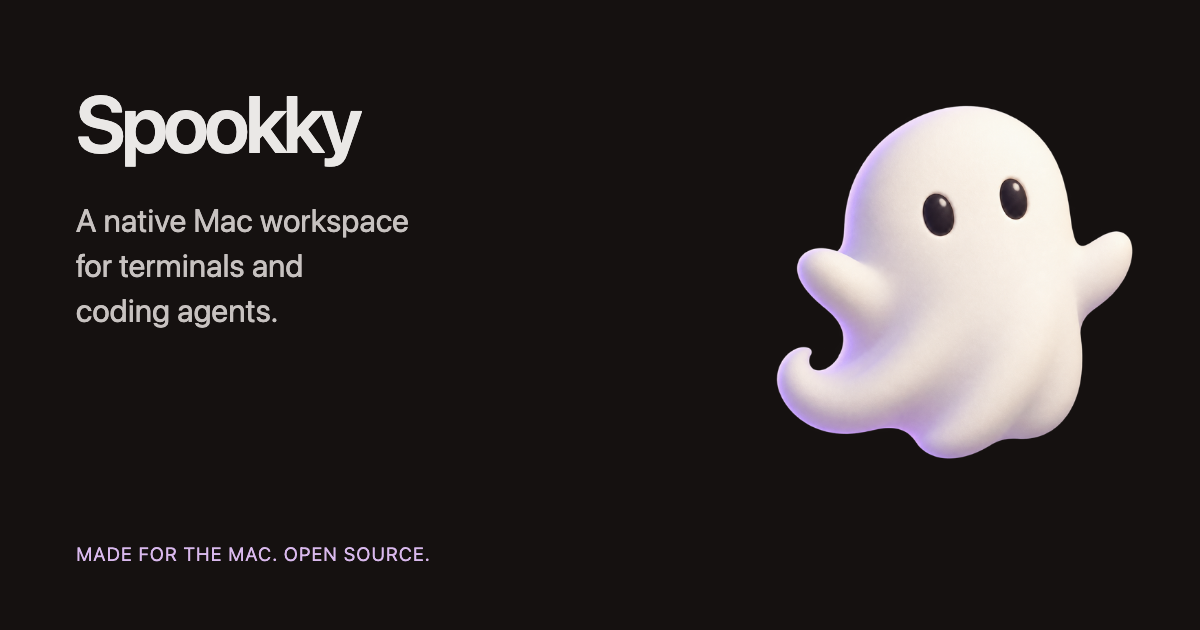
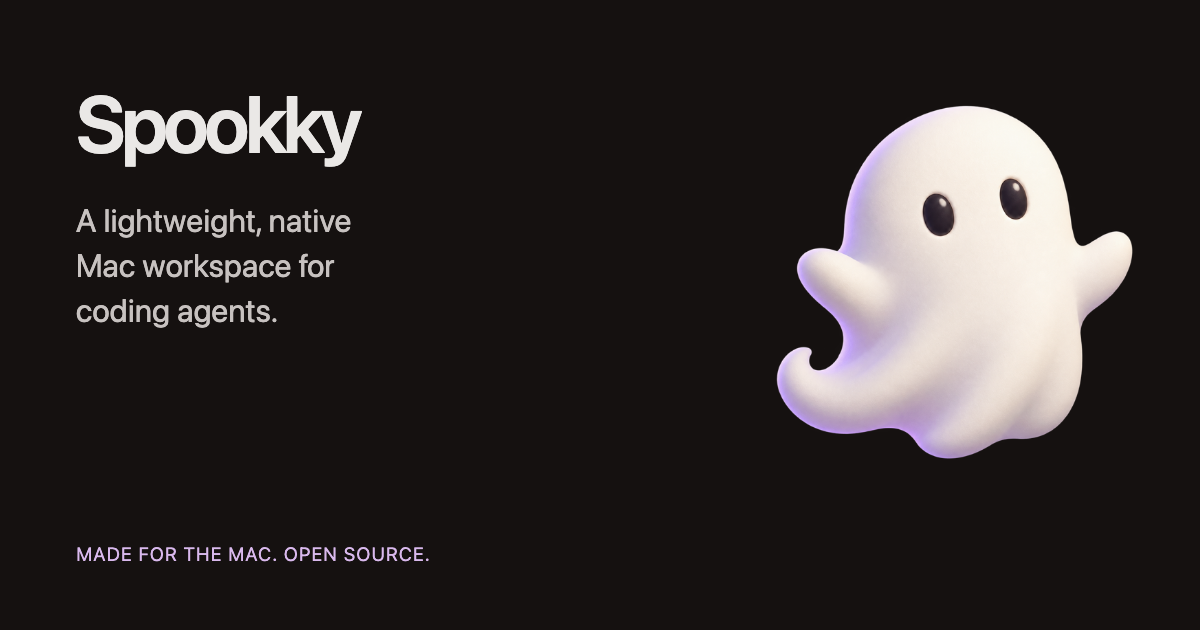
feat(web): simplify landing page and refresh native screenshots (#21)

Changed region(s): [[0.0617, 0.3317, 0.3392, 0.4524]]

diff --git a/website/style.css b/website/style.css
@@ -1,8 +1,87 @@
-:root{color-scheme:dark;--bg:#151110;--surface:#201e1c;--text:#eae8e6;--muted:#a8a5a3;--line:#37312f;--accent:#d9b9ed;--wash:#251b2b;--button:#eae8e6;--button-text:#151110}
-@media(prefers-color-scheme:light){:root{color-scheme:light;--bg:#f9f9fa;--surface:#fff;--text:#0a0a0a;--muted:#4a4847;--line:#d8d6da;--accent:#75507b;--wash:#f1eaf6;--button:#201e1c;--button-text:#fff}}
-:root[data-theme=dark]{color-scheme:dark;--bg:#151110;--surface:#201e1c;--text:#eae8e6;--muted:#a8a5a3;--line:#37312f;--accent:#d9b9ed;--wash:#251b2b;--button:#eae8e6;--button-text:#151110}
-:root[data-theme=light]{color-scheme:light;--bg:#f9f9fa;--surface:#fff;--text:#0a0a0a;--muted:#4a4847;--line:#d8d6da;--accent:#75507b;--wash:#f1eaf6;--button:#201e1c;--button-text:#fff}
-*{box-sizing:border-box}html{scroll-behavior:smooth;scroll-padding-top:24px}body{margin:0;background:var(--bg);color:var(--text);font:16px/1.65 -apple-system,BlinkMacSystemFont,"Segoe UI",sans-serif;-webkit-font-smoothing:antialiased}a{color:inherit;text-decoration:none}a:hover{text-decoration:underline;text-underline-offset:5px}button{font:inherit;color:inherit;cursor:pointer}a:focus-visible,button:focus-visible{outline:3px solid var(--accent);outline-offset:6px}img{max-width:100%;height:auto;display:block}.wrap{max-width:1216px;margin-inline:auto;padding-inline:40px}.skip{position:absolute;left:20px;top:-100px;z-index:5;background:var(--button);color:var(--button-text);padding:12px}.skip:focus{top:12px}.navigation{display:flex;align-items:center;justify-content:space-between;min-height:100px;gap:24px}.wordmark{display:flex;align-items:center;gap:10px;font-size:22px;letter-spacing:-.7px;font-weight:650}.wordmark img{border-radius:8px}.navigation nav{display:flex;align-items:center;gap:28px;font-size:13px}.navigation button{border:1px solid var(--line);background:transparent;border-radius:50%;width:36px;height:36px;font-size:22px;line-height:1}.hero{display:grid;grid-template-columns:1.2fr 1fr;align-items:center;min-height:650px;padding-block:72px 92px;gap:12px}.eyebrow{font-size:11px;letter-spacing:1.6px;text-transform:uppercase;color:var(--muted);font-weight:500;margin:0 0 24px}.dot{display:inline-block;width:6px;height:6px;background:var(--accent);border-radius:50%;margin-right:8px;vertical-align:2px}h1{font-weight:550;font-size:clamp(36px,4.4vw,60px);line-height:1.12;letter-spacing:-2.5px;margin:0 0 26px;max-width:650px}h1 span{color:var(--accent)}.intro{font-size:17px;line-height:1.7;color:var(--muted);max-width:410px;margin:0 0 32px}.actions{display:flex;flex-wrap:wrap;align-items:center;gap:24px}.button{display:inline-flex;align-items:center;justify-content:center;gap:18px;padding:13px 20px;border-radius:9px;font-size:14px;font-weight:600}.primary{background:var(--button);color:var(--button-text);box-shadow:0 2px 0 #0002}.primary:hover{text-decoration:none;opacity:.85}.text-link{font-size:13px;font-weight:500}.release-detail{font-size:11px;color:var(--muted);max-width:410px;margin:18px 0 0}.release-notes{font-size:11px;text-decoration:underline}.hero-art{position:relative;min-width:0;padding:12px}.hero-art:before{content:"";position:absolute;inset:15% 5%;background:radial-gradient(ellipse,var(--wash),transparent 70%);z-index:-1}.hero-art img{width:100%;transform:rotate(-5deg)}.orbit{display:block;text-align:center;font:11px/1.5 ui-monospace,SFMono-Regular,monospace;color:var(--muted);margin-top:12px}.workspace{padding-block:60px 110px}.section-heading{display:grid;grid-template-columns:1fr 1fr;align-items:end;gap:16px 48px}.section-heading .eyebrow{grid-column:1/-1;margin-bottom:0}h2{font-size:36px;font-weight:500;line-height:1.2;letter-spacing:-1.2px;margin:0}.section-heading>p:last-child{color:var(--muted);font-size:14px;max-width:340px;justify-self:end;margin:0 0 4px}.app-shot{margin:40px 0 48px;border:1px solid var(--line);background:var(--surface);border-radius:14px;overflow:hidden;box-shadow:0 24px 70px #0002}.app-shot img{width:100%}.app-shot figcaption{font-size:10px;letter-spacing:.6px;color:var(--muted);padding:10px 16px;text-align:center;border-top:1px solid var(--line)}.benefits{display:grid;grid-template-columns:repeat(3,1fr);gap:36px}.number{font:10px ui-monospace,SFMono-Regular,monospace;letter-spacing:1.4px;color:var(--accent)}h3{font-size:18px;font-weight:500;letter-spacing:-.3px;margin:15px 0 8px}.benefits p,.install p,.story p,.preview-note p{color:var(--muted);font-size:14px;margin:0}.keys{display:flex;flex-wrap:wrap;gap:6px;align-items:center;font-size:10px;color:var(--muted);margin-top:18px}.keys span{margin-right:6px}kbd{font:11px ui-monospace,SFMono-Regular,monospace;border:1px solid var(--line);border-radius:4px;padding:3px 6px}.install{display:grid;grid-template-columns:1fr 1fr;gap:70px;padding-block:80px;border-top:1px solid var(--line);border-bottom:1px solid var(--line)}.install>div>p:last-child{margin-top:20px;max-width:390px}.install ol{padding:0;list-style:none;margin:0;display:grid;gap:24px}.install li{display:flex;gap:18px}.install li>span{flex:none;border:1px solid var(--line);border-radius:50%;width:32px;height:32px;text-align:center;font:12px/30px ui-monospace,SFMono-Regular,monospace}.install h3{margin:0 0 4px;font-size:15px}.install li p{font-size:12px}.story{padding-block:110px;display:grid;grid-template-columns:1fr 1fr;gap:28px 70px}.story .eyebrow{grid-column:1/-1;margin:0}.story-copy{display:grid;gap:18px}.preview-note{max-width:1136px;border:1px solid var(--line);border-radius:12px;padding:28px;margin-inline:auto;background:var(--surface)}.preview-note h2{font-size:19px;letter-spacing:-.3px;margin-bottom:12px}.preview-note p{max-width:780px;margin-bottom:16px}footer{display:flex;flex-wrap:wrap;align-items:center;gap:16px 28px;padding-block:64px 36px}footer .wordmark{font-size:17px}footer p,footer nav,footer small{font-size:11px;color:var(--muted)}footer nav{display:flex;gap:20px;flex-wrap:wrap;margin-left:auto}footer small{flex-basis:100%;border-top:1px solid var(--line);padding-top:20px}.legal{max-width:760px;padding-block:50px 90px}.legal h1{font-size:44px}.legal h2{font-size:22px;margin:32px 0 12px}.legal p,.legal li{font-size:15px;color:var(--muted)}.legal a{text-decoration:underline}
-@media(max-width:800px){.wrap{padding-inline:24px}.hero{gap:0;padding-block:48px 60px;min-height:540px;grid-template-columns:1.3fr 1fr}h1{font-size:42px;letter-spacing:-1.7px}.hero-art{padding:0}.hero-art .orbit{font-size:9px}.section-heading,.install,.story{gap:28px}.benefits{gap:22px}.preview-note{margin-inline:24px}.story h2{font-size:29px}.navigation nav{gap:18px}footer nav{margin-left:0}}
-@media(max-width:600px){.wrap{padding-inline:20px}.navigation{min-height:78px;gap:12px}.navigation nav{gap:14px}.navigation nav>a:first-child{display:none}.wordmark{font-size:21px}.hero{grid-template-columns:1fr;padding-block:32px 50px}.hero-copy{position:relative;z-index:1}h1{font-size:39px;line-height:1.15;letter-spacing:-1.6px;max-width:420px}.eyebrow{font-size:9px;margin-bottom:20px}.intro{font-size:15px}.hero-art{width:65%;max-width:290px;justify-self:end;margin-top:25px}.hero-art .orbit{font-size:9px}.section-heading,.install,.story{grid-template-columns:1fr;gap:20px}.section-heading>p:last-child{justify-self:start;max-width:100%}h2{font-size:29px}.workspace{padding-block:20px 60px}.app-shot{margin:26px 0 30px;border-radius:8px}.benefits{grid-template-columns:1fr;gap:30px}.benefits article{max-width:400px}.benefits h3{margin-top:9px}.install{padding-block:48px;gap:32px}.story{padding-block:60px}.preview-note{margin-inline:20px;padding:20px}.actions{gap:20px}.button{padding:12px 15px;font-size:13px;gap:12px}footer{padding-top:45px;gap:14px}footer p{margin:0}footer nav{gap:16px}.release-detail{max-width:310px}}
-@media(prefers-reduced-motion:reduce){html{scroll-behavior:auto}*{animation:none!important;transition:none!important}}
+:root {
+  color-scheme: dark light;
+  --bg: #151110;
+  --text: #eae8e6;
+  --muted: #a8a5a3;
+  --line: #37312f;
+  --accent: #d9b9ed;
+  --button: #eae8e6;
+  --button-text: #151110;
+}
+
+@media (prefers-color-scheme: light) {
+  :root {
+    --bg: #f9f9fa;
+    --text: #0a0a0a;
+    --muted: #4a4847;
+    --line: #d8d6da;
+    --accent: #75507b;
+    --button: #201e1c;
+    --button-text: #fff;
+  }
+}
+
+* { box-sizing: border-box; }
+body {
+  margin: 0;
+  background: var(--bg);
+  color: var(--text);
+  font: 16px/1.6 -apple-system, BlinkMacSystemFont, "Segoe UI", sans-serif;
+  -webkit-font-smoothing: antialiased;
+}
+a { color: inherit; text-decoration: none; }
+a:hover { text-decoration: underline; text-underline-offset: 4px; }
+a:focus-visible { outline: 2px solid var(--accent); outline-offset: 6px; }
+img { display: block; max-width: 100%; height: auto; }
+.wrap { width: min(100%, 1040px); margin-inline: auto; padding-inline: 32px; }
+.skip { position: absolute; top: -100px; left: 20px; padding: 12px; background: var(--button); color: var(--button-text); z-index: 1; }
+.skip:focus { top: 12px; }
+.navigation { display: flex; align-items: center; justify-content: space-between; min-height: 112px; gap: 24px; }
+.wordmark { display: inline-flex; align-items: center; gap: 10px; font-size: 23px; font-weight: 600; letter-spacing: -.7px; }
+.wordmark img { width: 56px; height: 56px; }
+.wordmark:hover { text-decoration: none; }
+.navigation nav a { display: inline-block; padding-block: 12px; font-size: 14px; }
+.intro { padding-block: 48px 40px; }
+h1 { margin: 0; font-size: clamp(34px, 4.2vw, 48px); font-weight: 500; line-height: 1.17; letter-spacing: -1.8px; }
+.description { margin: 24px 0 28px; color: var(--muted); font-size: 18px; line-height: 1.65; }
+.actions { display: flex; align-items: center; flex-wrap: wrap; gap: 12px 28px; font-size: 14px; }
+.actions > a { padding-block: 12px; }
+.button { display: inline-flex; align-items: center; justify-content: center; gap: 20px; padding-inline: 18px; background: var(--button); color: var(--button-text); border-radius: 8px; font-weight: 600; }
+.button:hover { text-decoration: none; opacity: .85; }
+.release-detail, .release-notes { font-size: 13px; color: var(--muted); }
+.release-detail { margin: 20px 0 0; }
+.release-detail a, .release-notes { text-decoration: underline; text-underline-offset: 3px; }
+.release-notes { display: inline-block; margin-top: 8px; }
+[hidden] { display: none !important; }
+.app-shot { margin: 0; }
+.app-shot > a { display: block; border: 1px solid var(--line); border-radius: 12px; }
+.app-shot picture { display: block; overflow: hidden; border-radius: 11px; }
+.app-shot img { width: 100%; }
+.app-shot figcaption { margin-top: 12px; font-size: 12px; text-align: center; color: var(--muted); }
+.app-shot figcaption span { margin-inline: 4px; }
+footer { display: flex; flex-wrap: wrap; align-items: center; justify-content: space-between; gap: 12px 24px; padding-block: 36px; color: var(--muted); font-size: 13px; }
+footer p { margin: 0; }
+footer nav { display: flex; gap: 24px; }
+footer a { display: inline-block; padding-block: 8px; }
+.legal { max-width: 760px; padding-block: 48px; }
+.legal h1 { font-size: 40px; }
+.legal h2 { margin: 32px 0 12px; font-size: 22px; font-weight: 500; letter-spacing: -.4px; }
+.legal p { color: var(--muted); }
+.legal a { text-decoration: underline; text-underline-offset: 3px; }
+
+@media (max-width: 600px) {
+  .wrap { padding-inline: 20px; }
+  .navigation { min-height: 92px; }
+  .wordmark { font-size: 22px; }
+  .wordmark img { width: 48px; height: 48px; }
+  .intro { padding-block: 32px; }
+  h1 { font-size: 34px; letter-spacing: -1.2px; }
+  .description { font-size: 16px; margin-block: 20px 24px; }
+  .desktop-break { display: none; }
+  .release-detail { max-width: 300px; }
+  .app-shot picture { height: 280px; }
+  .app-shot img { width: 1000px; max-width: none; margin-left: -480px; }
+  .app-shot figcaption { font-size: 12px; }
+  footer { padding-block: 28px; }
+  footer nav { gap: 20px; }
+}

diff --git a/website/index.html b/website/index.html
@@ -4,10 +4,10 @@
   <meta charset="utf-8">
   <meta name="viewport" content="width=device-width, initial-scale=1">
   <meta name="color-scheme" content="dark light">
-  <title>Spookky · A native Mac workspace for terminals and coding agents</title>
-  <meta name="description" content="A native Mac workspace for terminals and coding agents. Keep parallel sessions, projects, worktrees, and diffs around Ghostty’s terminal core.">
+  <title>Spookky · A lightweight, native Mac workspace for coding agents</title>
+  <meta name="description" content="A lightweight, native Mac workspace for coding agents. Run agents in parallel with the CLI you already use. Keep conversations and code changes together.">
   <meta property="og:title" content="Spookky">
-  <meta property="og:description" content="Your terminals, with room for parallel work. Built for the Mac.">
+  <meta property="og:description" content="A lightweight, native Mac workspace for coding agents.">
   <meta property="og:type" content="website">
   <meta property="og:url" content="https://pamekitti.github.io/spookky/">
   <meta property="og:image" content="https://pamekitti.github.io/spookky/assets/social.png">
@@ -19,30 +19,41 @@
 <body>
   <a class="skip" href="#main">Skip to content</a>
   <header class="navigation wrap">
-    <a class="wordmark" href="./" aria-label="Spookky home"><img src="assets/favicon.png" width="32" height="32" alt="">Spookky</a>
-    <nav aria-label="Main navigation"><a href="#workspace">The workspace</a><a href="https://github.com/Pamekitti/spookky">GitHub <span aria-hidden="true">↗</span></a><button id="theme" type="button" aria-label="Switch color theme">◐</button></nav>
+    <a class="wordmark" href="./" aria-label="Spookky home">
+      <img src="assets/mascot.png" width="56" height="56" alt="">
+      <span>Spookky</span>
+    </a>
+    <nav aria-label="Main navigation">
+      <a href="https://github.com/Pamekitti/spookky/blob/main/docs/development.md">Docs</a>
+    </nav>
   </header>
-  <main id="main">
-    <section class="hero wrap" aria-labelledby="headline">
-      <div class="hero-copy">
-        <p class="eyebrow"><span class="dot" aria-hidden="true"></span> Made for the Mac. Open source.</p>
-        <h1 id="headline">A native Mac workspace for terminals and <span>coding agents.</span></h1>
-        <p class="intro">A real terminal at the center. Projects, parallel sessions, worktrees, and diffs around it.</p>
-        <div class="actions"><a class="button primary" id="download" href="https://github.com/Pamekitti/spookky">Explore the source <span aria-hidden="true">↗</span></a><a class="text-link" href="#workspace">Take a look <span aria-hidden="true">↓</span></a></div>
-        <p class="release-detail" id="release-detail" aria-live="polite">Public Preview is being prepared. No installer is available yet.</p>
-        <a id="release-notes" class="release-notes" hidden>Release notes</a>
+  <main id="main" class="wrap">
+    <section class="intro" aria-labelledby="headline">
+      <h1 id="headline">A lightweight, native Mac workspace<br>for coding agents.</h1>
+      <p class="description">Run agents in parallel with the CLI you already use.<br class="desktop-break"> Keep conversations and code changes together.</p>
+      <div class="actions">
+        <a class="button" id="download" href="https://github.com/Pamekitti/spookky">View on GitHub <span aria-hidden="true">↗</span></a>
+        <a id="secondary-action" href="https://github.com/Pamekitti/spookky/blob/main/docs/development.md">Build from source</a>
       </div>
-      <div class="hero-art"><img src="assets/mascot.png" alt="Spookky’s friendly floating ghost" width="640" height="640" fetchpriority="high"><span class="orbit" aria-hidden="true">A little space for parallel work.</span></div>
+      <p class="release-detail" id="release-detail" aria-live="polite"><a href="https://github.com/Pamekitti/spookky/blob/main/docs/status.md">Development preview</a>. Apple Silicon. No public installer yet.</p>
+      <a id="release-notes" class="release-notes" hidden>Release notes</a>
     </section>
-    <section class="workspace wrap" id="workspace" aria-labelledby="workspace-title">
-      <div class="section-heading"><p class="eyebrow">The terminal stays the terminal</p><h2 id="workspace-title">Everything around it<br>gets a place.</h2><p>Keep the CLI you know, with its own shortcuts, history, authentication, and permissions.</p></div>
-      <figure class="app-shot"><picture><source media="(prefers-color-scheme: light)" srcset="assets/workspace-light.png"><img id="workspace-image" src="assets/workspace-dark.png" alt="Spookky’s native workspace with terminal tabs, project navigation, and changes beside a real shell" width="1440" height="900" loading="lazy"></picture><figcaption>Native app · Apple Silicon · Development build</figcaption></figure>
-      <div class="benefits"><article><span class="number">01 / START</span><h3>Just open a shell.</h3><p>No project, prompt, or app account required. Start at Home, then add structure when you need it.</p><div class="keys"><kbd>⌘ N</kbd><span>workspace</span><kbd>⌘ T</kbd><span>terminal</span></div></article><article><span class="number">02 / ORGANIZE</span><h3>Parallel, with a place.</h3><p>Keep sessions together in a workspace. Choose a Git worktree when you want a separate checkout.</p></article><article><span class="number">03 / INSPECT</span><h3>See what changed.</h3><p>Read files and inspect diffs beside your terminal. Keep committing, testing, and shipping through your own tools.</p></article></div>
-    </section>
-    <section class="install wrap" id="install" aria-labelledby="install-title"><div><p class="eyebrow">A familiar Mac welcome</p><h2 id="install-title">Download. Drag. Open.</h2><p>Signed, notarized installers are the release target. The first public download appears here after installation and update checks pass.</p></div><ol><li><span>1</span><div><h3>Download the DMG</h3><p>Your browser saves the installer, usually in Downloads.</p></div></li><li><span>2</span><div><h3>Drag into Applications</h3><p>Open the disk image and move Spookky to Applications.</p></div></li><li><span>3</span><div><h3>Open Spookky</h3><p>Start a shell. Signed releases offer update settings inside the app.</p></div></li></ol></section>
-    <section class="story wrap" aria-labelledby="story-title"><p class="eyebrow">Why this little ghost exists</p><h2 id="story-title">I love Ghostty.<br>I wanted a workspace around it.</h2><div class="story-copy"><p>Ghostty makes the terminal feel at home on the Mac. Working with coding agents added a few things I wanted nearby: projects, parallel sessions, worktrees, and a way to inspect changes.</p><p>So I started building Spookky. The terminal remains the center. Native controls, familiar shortcuts, and careful resource use guide the work around it.</p><a class="text-link" href="https://github.com/Pamekitti/spookky#why-i-built-spookky">Read the project story <span aria-hidden="true">↗</span></a></div></section>
-    <section class="preview-note wrap" aria-labelledby="preview-title"><h2 id="preview-title">Early, and honest about it.</h2><p>Spookky is in development. Extended session continuity, hands-on input and accessibility, supported macOS versions, and signed installation have remaining checks. Speed and reliable recovery are requirements, not finished claims.</p><a class="text-link" href="https://github.com/Pamekitti/spookky/blob/main/docs/status.md">Current status and release gates <span aria-hidden="true">↗</span></a></section>
+    <figure class="app-shot">
+      <a id="workspace-full" href="assets/workspace-dark.png" aria-label="View full-size Spookky screenshot">
+        <picture>
+          <source media="(prefers-color-scheme: light)" srcset="assets/workspace-light.png">
+          <img id="workspace-image" src="assets/workspace-dark.png" alt="Spookky’s native development build with Northstar conversations, a real Codex session, and its search empty-state diff" width="2880" height="1800" fetchpriority="high">
+        </picture>
+      </a>
+      <figcaption>Native development build <span aria-hidden="true">·</span> <a id="workspace-caption" href="assets/workspace-dark.png">View full size <span aria-hidden="true">↗</span></a></figcaption>
+    </figure>
   </main>
-  <footer class="wrap"><a class="wordmark" href="./">Spookky</a><p>Made for the Mac. Built on <a href="https://ghostty.org/">Ghostty</a>.</p><nav aria-label="Footer"><a href="https://github.com/Pamekitti/spookky/tree/main/docs">Docs</a><a href="https://github.com/Pamekitti/spookky/releases">Releases</a><a href="privacy.html">Privacy</a><a href="https://github.com/Pamekitti/spookky/security/policy">Security</a><a href="https://github.com/Pamekitti/spookky/blob/main/LICENSE">MIT license</a></nav><small>© 2026 Pamekitti</small></footer>
+  <footer class="wrap">
+    <p>Built on <a href="https://ghostty.org/">Ghostty</a>.</p>
+    <nav aria-label="Footer">
+      <a href="https://github.com/Pamekitti/spookky/blob/main/LICENSE">MIT license</a>
+      <a href="privacy.html">Privacy</a>
+    </nav>
+  </footer>
 </body>
 </html>

diff --git a/website/privacy.html b/website/privacy.html
@@ -1,1 +1,1 @@
-<!doctype html><html lang="en"><head><meta charset="utf-8"><meta name="viewport" content="width=device-width, initial-scale=1"><title>Privacy · Spookky</title><link rel="icon" href="assets/favicon.png"><link rel="stylesheet" href="style.css"><script src="site.js" defer></script></head><body><header class="navigation wrap"><a class="wordmark" href="./">Spookky</a><button id="theme" type="button" aria-label="Switch color theme">◐</button></header><main class="legal wrap"><h1>Privacy</h1><p>Spookky keeps workspace metadata on your Mac. It does not require a Spookky account.</p><h2>The app</h2><p>Workspace folders, tab names, launch drafts, and process references are stored locally. Terminal contents stay in the terminal stack. Spookky does not operate a service that receives your prompts, source files, or terminal output.</p><p>Your shell, Git commands, and agent CLIs may communicate with services you choose. Their authentication, permissions, histories, and privacy policies remain their own.</p><h2>Updates</h2><p>Signed public builds use Sparkle. If you enable update checks, the app requests the release feed from GitHub Pages and downloads selected updates from GitHub Releases. These requests reveal ordinary connection information, including your IP address, to the hosting providers. Spookky does not send a system profile. You can change automatic checks and downloads in Settings.</p><h2>This website</h2><p>There are no added analytics, advertising scripts, or tracking cookies. The theme preference is stored in your browser’s local storage. GitHub Pages hosts the site and may log connection information for security and service operation. See <a href="https://docs.github.com/en/site-policy/privacy-policies/github-general-privacy-statement">GitHub’s privacy statement</a>.</p><h2>Reports you submit</h2><p>GitHub issues and discussions are public. Remove private paths, prompts, credentials, and terminal content before sharing diagnostics. Report vulnerabilities through <a href="https://github.com/Pamekitti/spookky/security/advisories/new">GitHub’s private reporting channel</a>.</p><p>Updated 13 October 2026.</p></main><footer class="wrap"><a href="./">Back to Spookky</a></footer></body></html>
+<!doctype html><html lang="en"><head><meta charset="utf-8"><meta name="viewport" content="width=device-width, initial-scale=1"><title>Privacy · Spookky</title><link rel="icon" href="assets/favicon.png"><link rel="stylesheet" href="style.css"></head><body><header class="navigation wrap"><a class="wordmark" href="./" aria-label="Spookky home"><img src="assets/mascot.png" width="56" height="56" alt=""><span>Spookky</span></a><nav aria-label="Main navigation"><a href="./">Back to Spookky</a></nav></header><main class="legal wrap"><h1>Privacy</h1><p>Spookky keeps workspace metadata on your Mac. It does not require a Spookky account.</p><h2>The app</h2><p>Workspace folders, tab names, launch drafts, and process references are stored locally. Terminal contents stay in the terminal stack. Spookky does not operate a service that receives your prompts, source files, or terminal output.</p><p>Your shell, Git commands, and agent CLIs may communicate with services you choose. Their authentication, permissions, histories, and privacy policies remain their own.</p><h2>Updates</h2><p>Signed public builds use Sparkle. If you enable update checks, the app requests the release feed from GitHub Pages and downloads selected updates from GitHub Releases. These requests reveal ordinary connection information, including your IP address, to the hosting providers. Spookky does not send a system profile. You can change automatic checks and downloads in Settings.</p><h2>This website</h2><p>There are no added analytics, advertising scripts, or tracking cookies. The site follows your system color theme and does not store preferences in your browser. GitHub Pages hosts the site and may log connection information for security and service operation. See <a href="https://docs.github.com/en/site-policy/privacy-policies/github-general-privacy-statement">GitHub’s privacy statement</a>.</p><h2>Reports you submit</h2><p>GitHub issues and discussions are public. Remove private paths, prompts, credentials, and terminal content before sharing diagnostics. Report vulnerabilities through <a href="https://github.com/Pamekitti/spookky/security/advisories/new">GitHub’s private reporting channel</a>.</p><p>Updated 19 October 2026.</p></main><footer class="wrap"><a href="./">Back to Spookky</a></footer></body></html>

diff --git a/website/tests/site.spec.js b/website/tests/site.spec.js
@@ -4,13 +4,16 @@ for (const width of [1440,390,320]) {
     await page.setViewportSize({width,height:1000});
     const failures=[];
     page.on("response", response => {if(response.status()>=400) failures.push(response.url());});
+    await page.emulateMedia({colorScheme:"dark"});
     await page.goto("./");
     await expect(page.getByRole("heading",{level:1})).toContainText("native Mac workspace");
     await page.locator("footer").scrollIntoViewIfNeeded();
     await expect.poll(()=>page.locator("img").evaluateAll(images=>images.every(image=>image.complete && image.naturalWidth>0))).toBe(true);
     expect(failures).toEqual([]);
     expect(await page.evaluate(()=>document.documentElement.scrollWidth<=innerWidth)).toBe(true);
-    await page.getByRole("button",{name:/Switch to/}).click();
+    await expect(page.locator("#workspace-full")).toHaveAttribute("href","assets/workspace-dark.png");
+    await page.emulateMedia({colorScheme:"light"});
+    await expect(page.locator("#workspace-full")).toHaveAttribute("href","assets/workspace-light.png");
     expect(await page.evaluate(()=>document.documentElement.scrollWidth<=innerWidth)).toBe(true);
     await page.getByRole("link",{name:"Privacy",exact:true}).click();
     await expect(page.getByRole("heading",{level:1})).toHaveText("Privacy");
@@ -19,7 +22,7 @@ for (const width of [1440,390,320]) {
 test("no installer is offered before a release",async({page})=>{
   await page.goto("./");
   await expect(page.locator("#download")).toHaveAttribute("href","https://github.com/Pamekitti/spookky");
-  await expect(page.locator("#release-detail")).toContainText("No installer");
+  await expect(page.locator("#release-detail")).toContainText("No public installer");
   await page.keyboard.press("Tab");
   await expect(page.getByRole("link",{name:"Skip to content"})).toBeFocused();
 });
@@ -28,6 +31,8 @@ test("a published manifest supplies the download",async({page})=>{
   await page.goto("./");
   await expect(page.locator("#download")).toContainText("Download Preview for Mac");
   await expect(page.locator("#release-detail")).toContainText("1.0 MB");
+  await expect(page.locator("#secondary-action")).toHaveText("GitHub");
+  await expect(page.locator("#secondary-action")).toHaveAttribute("href","https://github.com/Pamekitti/spookky");
 });
 test("invalid release metadata retains the source link",async({page})=>{
   await page.route("**/release-manifest.json",route=>route.fulfill({json:{release:{version:"0.1.0",architecture:"arm64",assetURL:"https://invalid.example/download.dmg"}}}));

diff --git a/website/site.js b/website/site.js
@@ -1,28 +1,16 @@
 "use strict";
-const root = document.documentElement;
-const themeButton = document.getElementById("theme");
-const systemTheme = () => matchMedia("(prefers-color-scheme: light)").matches ? "light" : "dark";
-function applyTheme(theme) {
-  root.dataset.theme = theme;
-  if (themeButton) themeButton.setAttribute("aria-label", `Switch to ${theme === "dark" ? "light" : "dark"} theme`);
-  const image = document.getElementById("workspace-image");
-  if (image) {
-    image.src = `assets/workspace-${theme}.png`;
-    image.closest("picture").querySelector("source").srcset = image.src;
+
+const appearance = matchMedia("(prefers-color-scheme: light)");
+function updateScreenshotLinks() {
+  const source = `assets/workspace-${appearance.matches ? "light" : "dark"}.png`;
+  for (const id of ["workspace-full", "workspace-caption"]) {
+    const link = document.getElementById(id);
+    if (link) link.href = source;
   }
 }
-let savedTheme;
-try { savedTheme = localStorage.getItem("spookky-site-theme"); } catch {}
-applyTheme(["light", "dark"].includes(savedTheme) ? savedTheme : systemTheme());
-themeButton?.addEventListener("click", () => {
-  const theme = root.dataset.theme === "dark" ? "light" : "dark";
-  applyTheme(theme);
-  try { localStorage.setItem("spookky-site-theme", theme); } catch {}
-});
-matchMedia("(prefers-color-scheme: light)").addEventListener("change", () => {
-  try { if (localStorage.getItem("spookky-site-theme")) return; } catch {}
-  applyTheme(systemTheme());
-});
+updateScreenshotLinks();
+appearance.addEventListener("change", updateScreenshotLinks);
+
 async function showRelease() {
   const download = document.getElementById("download");
   if (!download) return;
@@ -37,6 +25,9 @@ async function showRelease() {
     download.href = asset.href;
     download.textContent = release.channel === "preview" ? "Download Preview for Mac ↓" : "Download for Mac ↓";
     document.getElementById("release-detail").textContent = `${release.version} · Apple Silicon · macOS ${release.minimumOS}+ · ${(release.bytes / 1048576).toFixed(1)} MB`;
+    const secondary = document.getElementById("secondary-action");
+    secondary.href = "https://github.com/Pamekitti/spookky";
+    secondary.textContent = "GitHub";
     const link = document.getElementById("release-notes");
     link.hidden = false; link.href = notes.href;
   } catch { /* The source link remains useful if release metadata is unavailable. */ }

diff --git a/website/README.md b/website/README.md
@@ -17,19 +17,25 @@ npx playwright install chromium
 npm test
 ```
 
-The six checks cover desktop, 390px, 320px, keyboard access, and release metadata.
+The six checks cover desktop, 390px, 320px, system light/dark appearance, keyboard access, screenshot links, and release metadata.
 
 ## Release availability
 
-`release-manifest.json` contains `{"release":null}` until a public installer passes its release gates. The primary action then points to the source. A verified manifest changes it to a Mac download with the version, requirements, size, and checksum.
+`release-manifest.json` contains `{"release":null}` until a public installer passes its release gates. The primary action then points to the source, with build instructions beside it. A verified manifest changes it to a Mac download with the version, requirements, and size. The secondary action then links to GitHub.
 
 Follow [the release procedure](../docs/releasing.md) before publishing metadata or the signed updater feed. Never add a placeholder installer URL.
 
 ## Artwork
 
-On macOS, `node website/tools/render-brand.mjs` renders the social image and a DMG background with paired standard/Retina representations. `tiffutil` combines the DMG representations. The app icon is stored in `App/Assets.xcassets`.
+On macOS, `node website/tools/render-brand.mjs --social-only` updates the social image. Omit the flag to also render the DMG background with paired standard/Retina representations. `tiffutil` combines the DMG representations. The app icon is stored in `App/Assets.xcassets`.
 
-The workspace images show native development builds using generated demo files. The HTML prototype is not a source of native compatibility evidence.
+The original ghost mascot stays beside the wordmark. The page follows the system color theme without storing a browser preference.
+
+The workspace images were captured on 19 October 2026 from the real native app at 1440 × 900 points and 100% zoom. The Retina images are 2880 × 1800 pixels. They show a disposable Northstar project, three real Codex CLI sessions, and the selected session's search empty-state change. Codex CLI 0.163.0 made the 20-line addition and passed `node --check app.js`; the other two sessions are idle. App metadata, provider history, and the private runtime are isolated from daily work.
+
+The capture uses the locally packaged 0.1.4 (104) app from source `86e3ef96b2506c8c16d104bf1172914d5f994989`. Its native source matches main at `b3e1bd48b5859fc60664e51acbc8d08a66f62a26`. Both appearances show the same state. The terminal retains its configured dark theme in the light app appearance. The captures include the operating system's window-sharing indicator. Terminal text and native controls have not been composited or altered.
+
+On narrow screens, the image focuses on the diff; its image link and caption open the complete capture. These images establish appearance, not performance, recovery, or full provider compatibility. The HTML prototype is not a source of native compatibility evidence.
 
 ## Deployment
 
